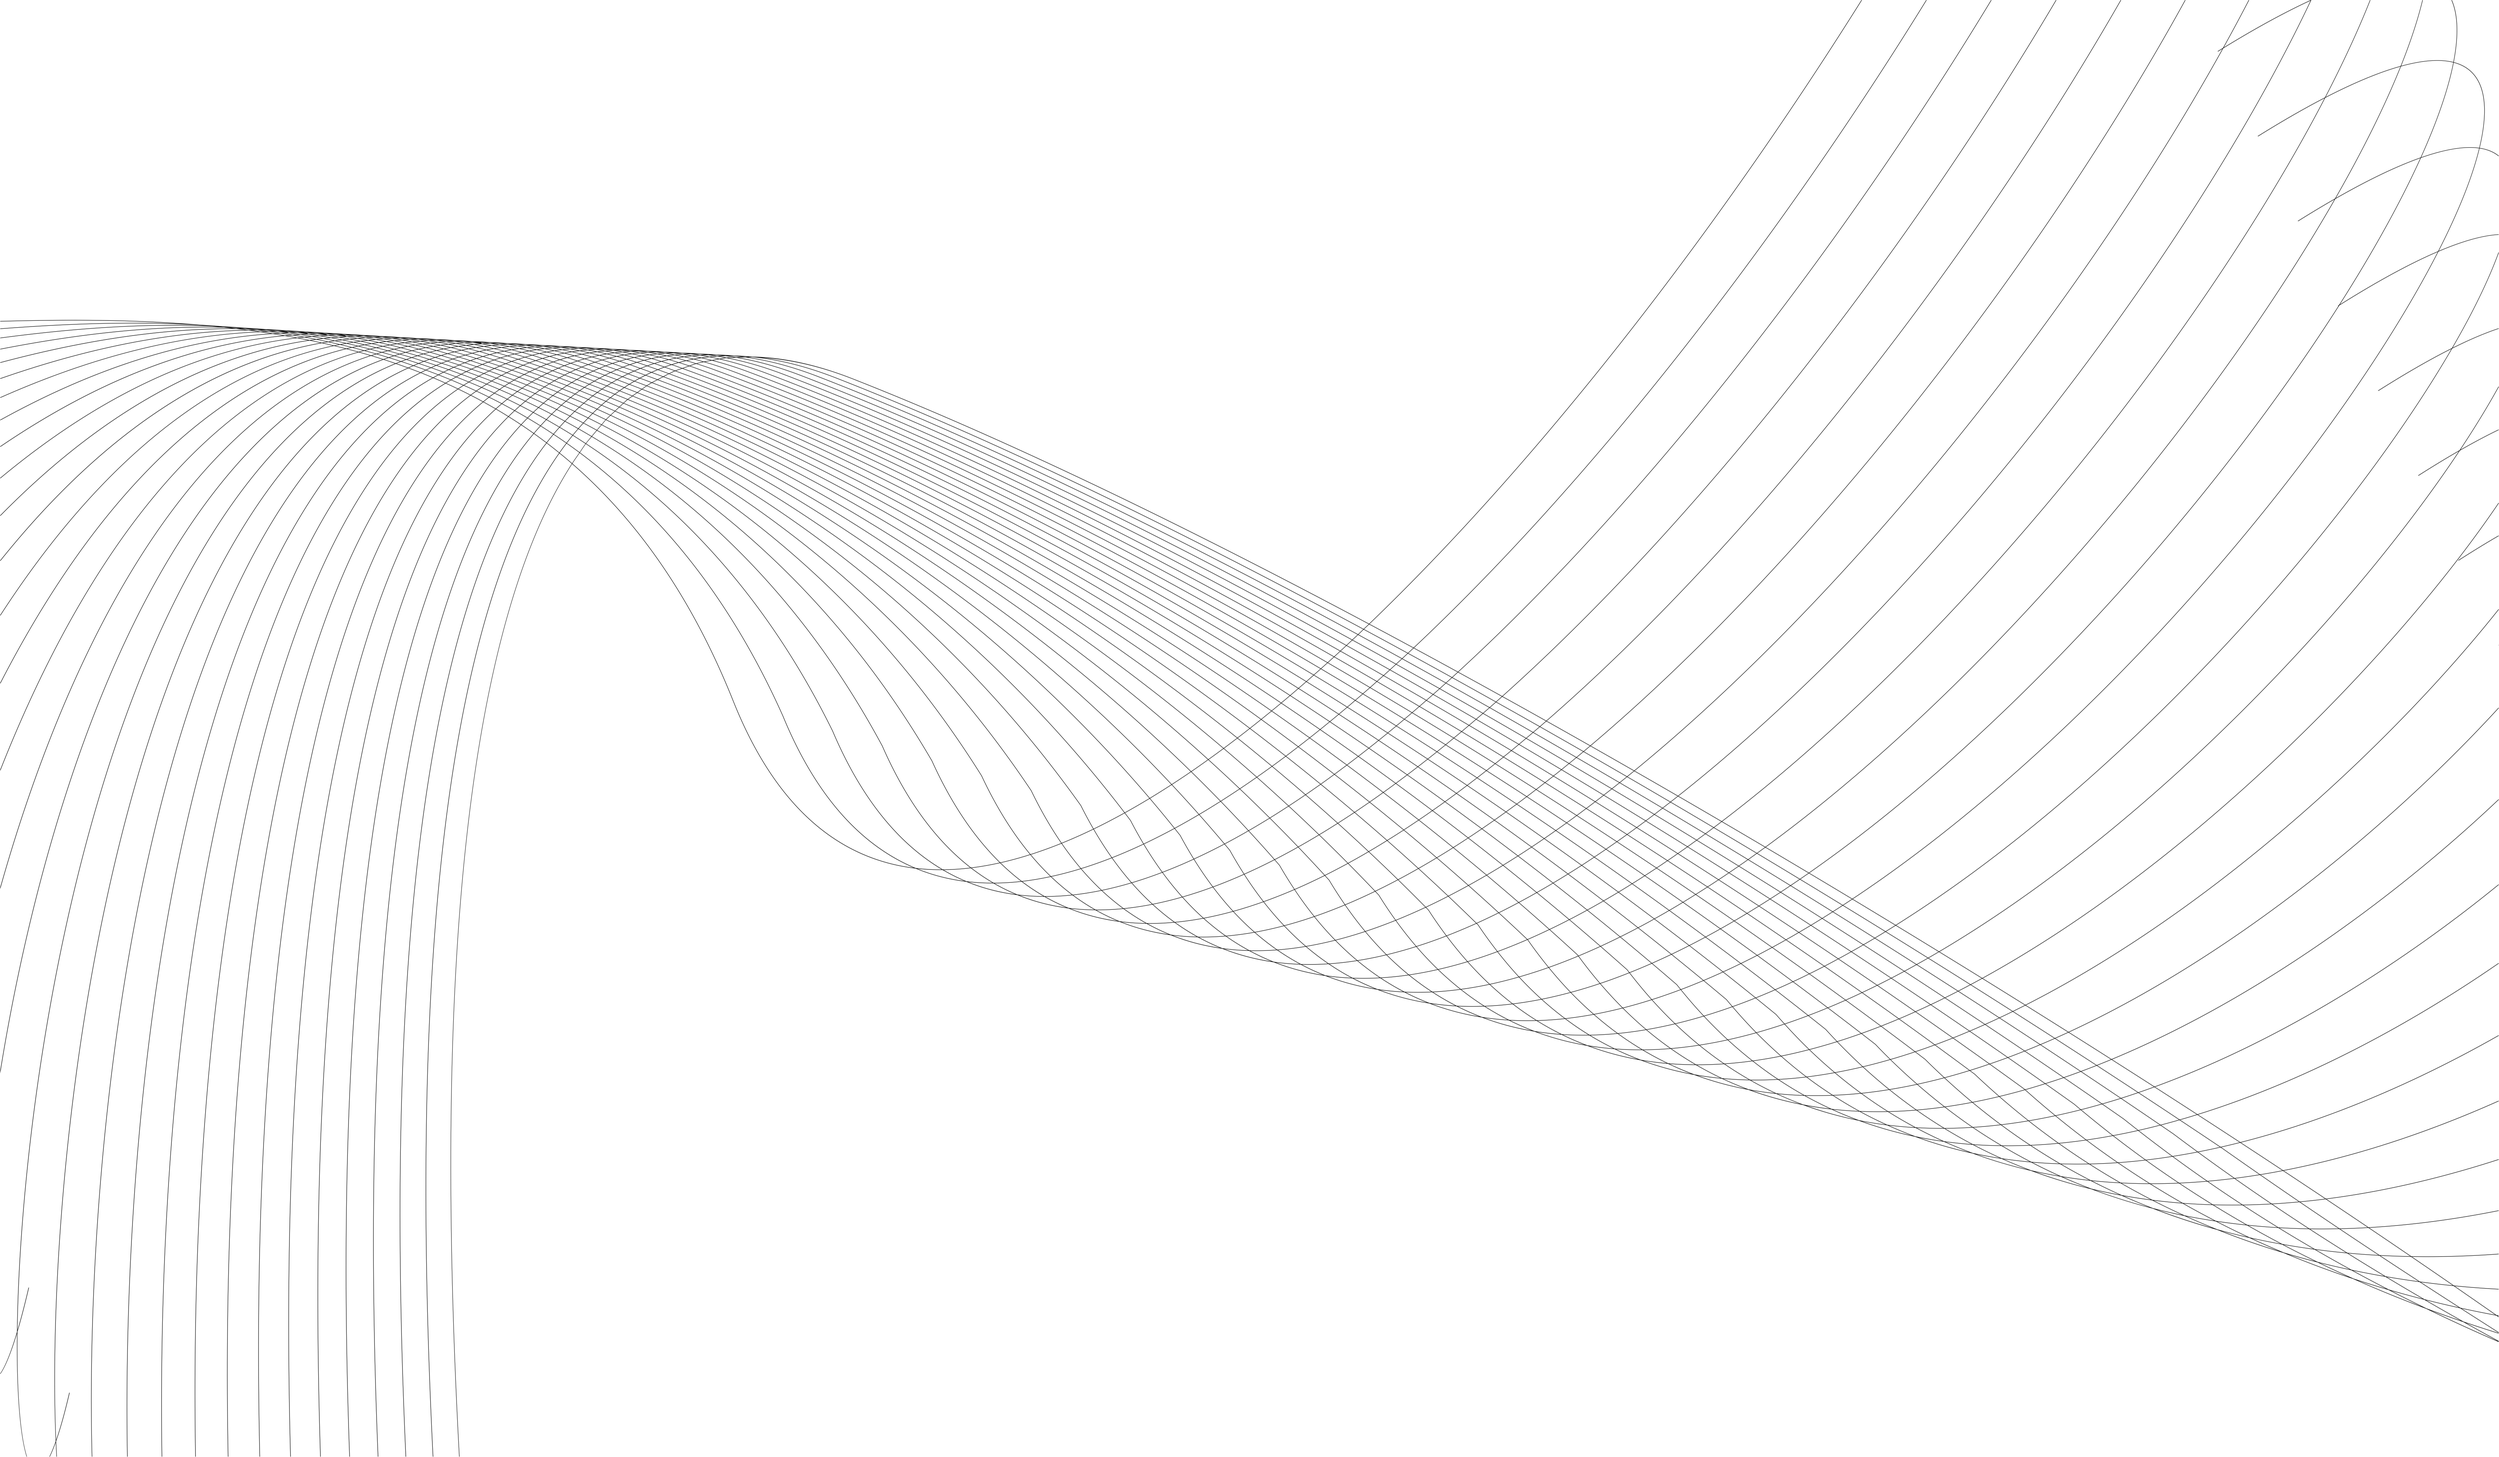
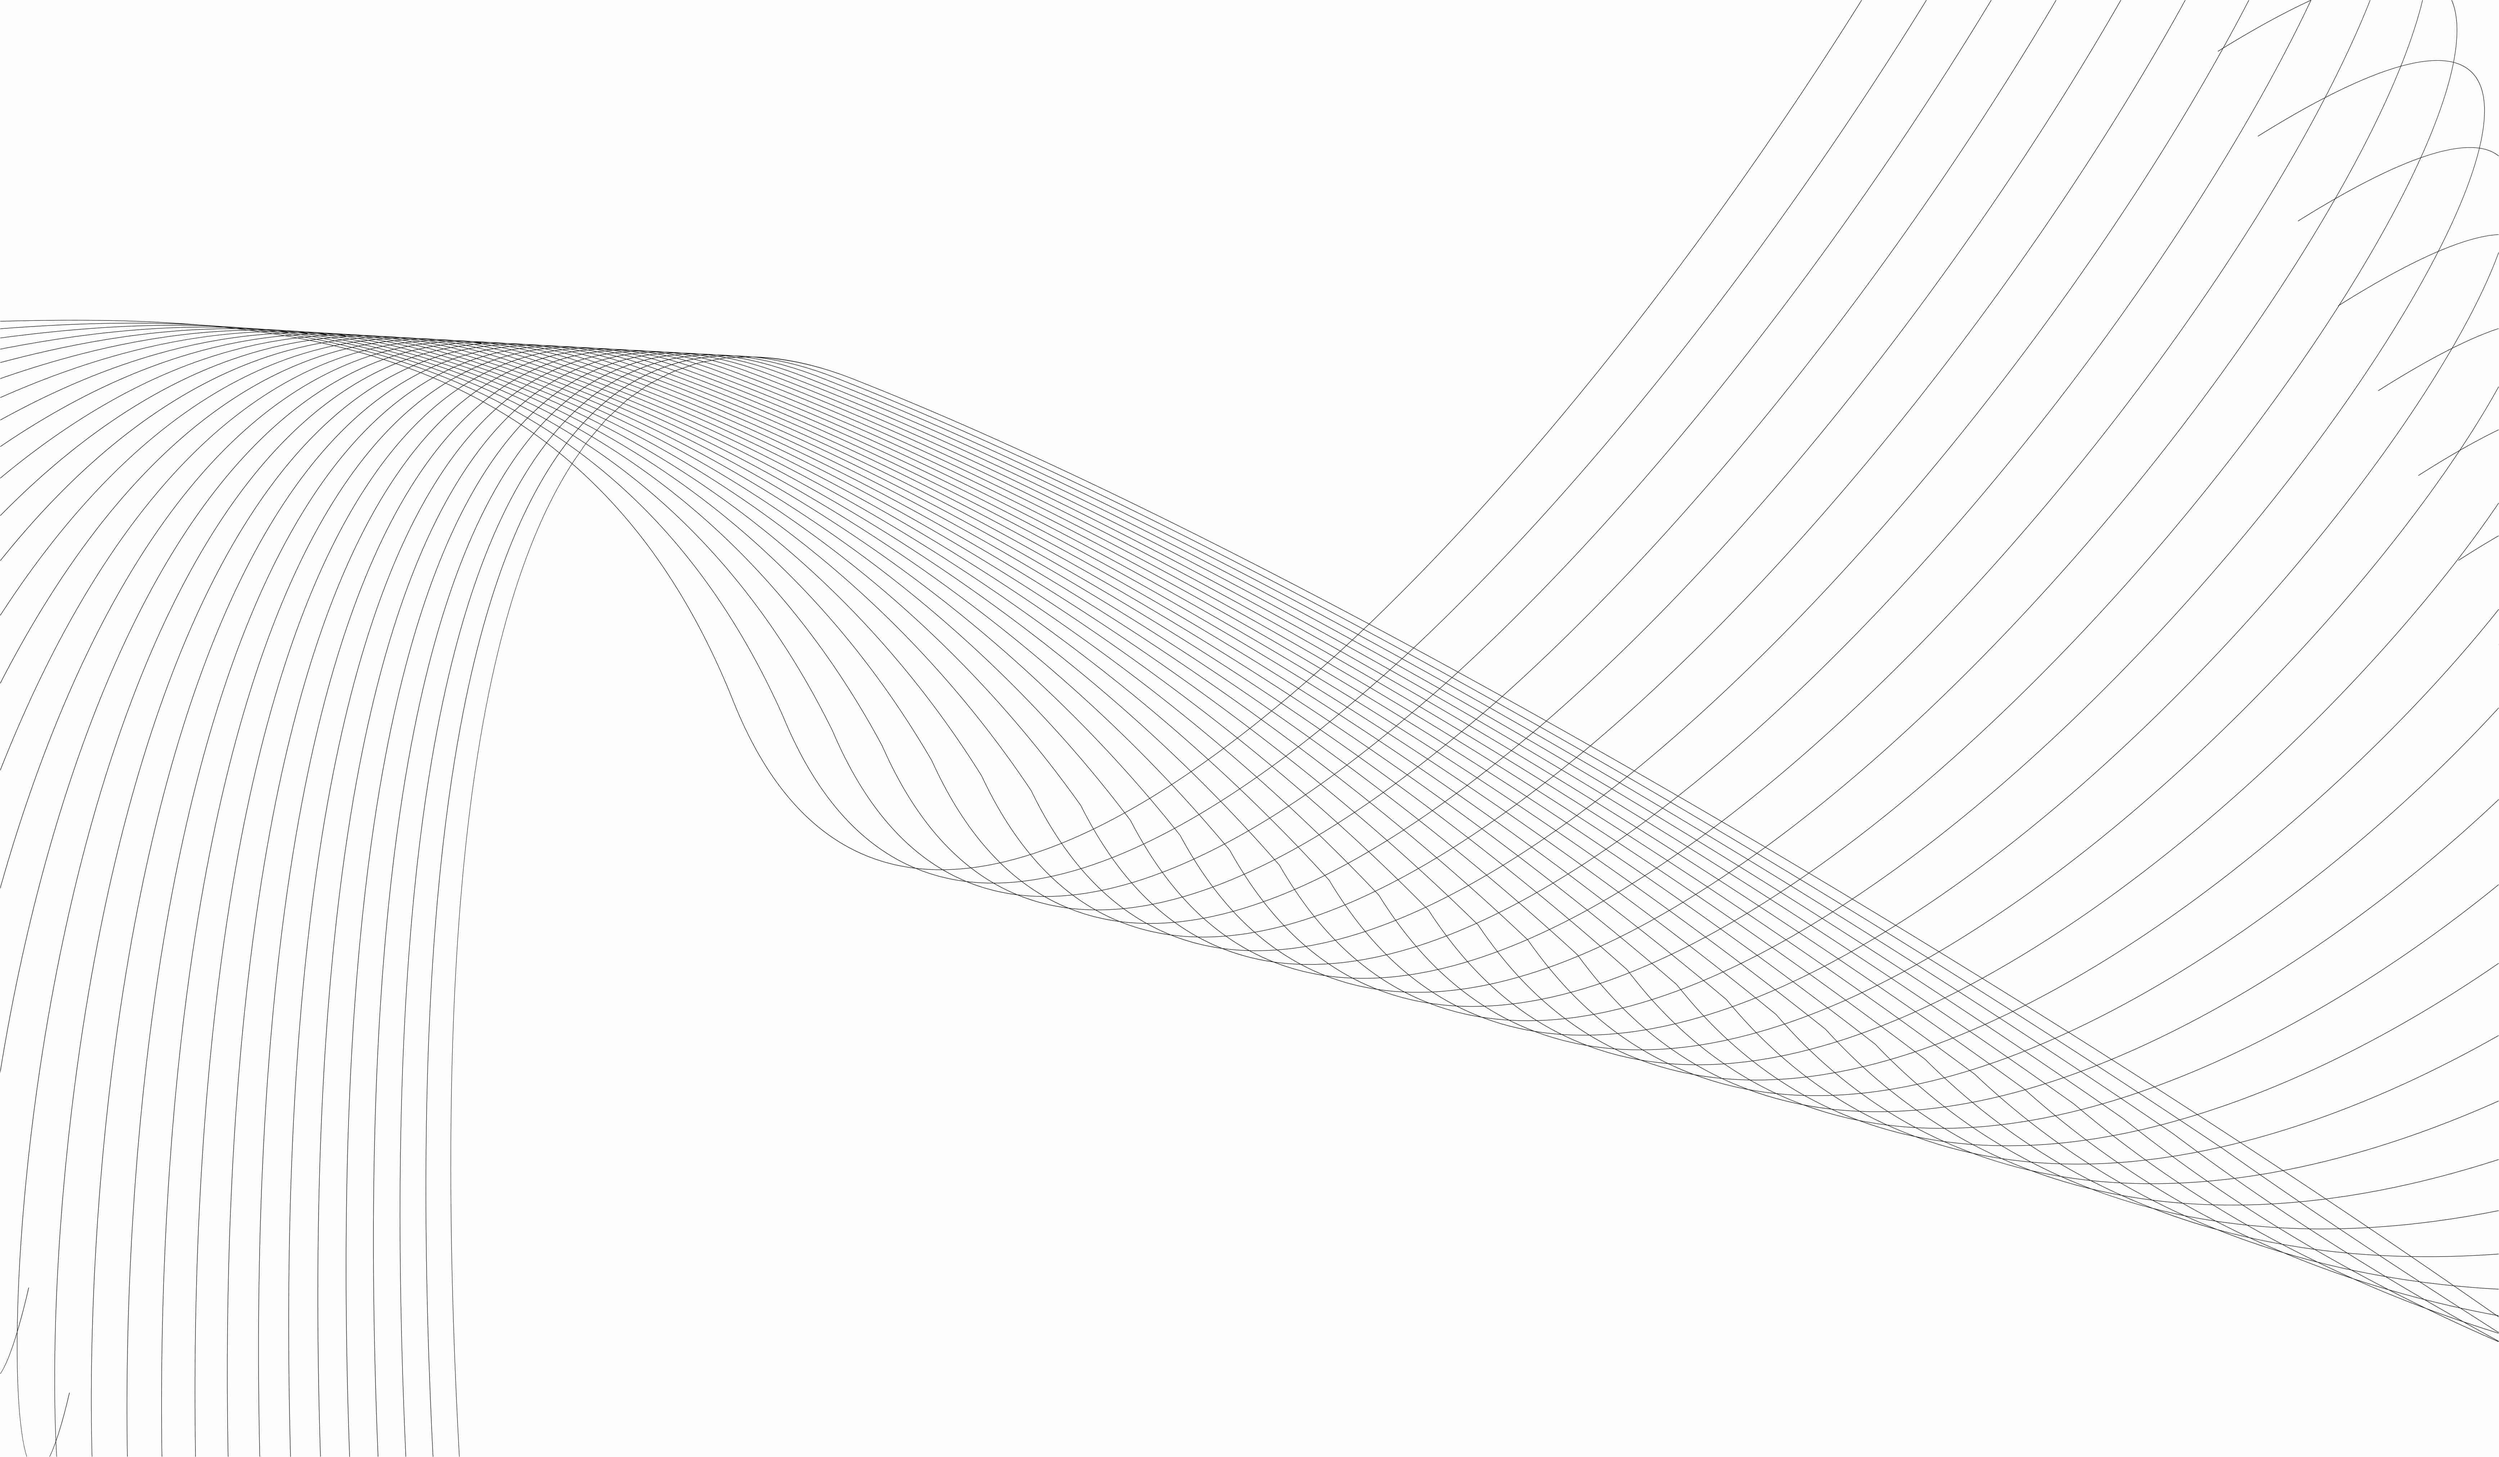
last

Changed region(s): [[0.1867, 0.2491, 0.3734, 0.3113]]

diff --git a/index.html b/index.html
@@ -76,85 +76,83 @@
 
   <main class="main">
     <!-- Hero Section -->
-    <section id="hero" class="hero section">
-      <!-- Video Background -->
-      <video id="hero-video" class="hero-video" autoplay muted loop playsinline>
-        <source id="video-source" src="assets/img/portfolio/720.webm" type="video/webm">
-        Your browser does not support the video tag.
-      </video>
+    <section id="hero" class="hero section" style="position: relative; overflow: hidden;">
+  <!-- Video Background -->
+  <video id="hero-video" class="hero-video" autoplay muted loop playsinline
+         style="width: 100%; height: 100%; object-fit: cover; display: block;">
+    <source id="video-source" src="assets/img/portfolio/720.webm" type="video/webm">
+    Your browser does not support the video tag.
+  </video>
 
-      <div class="container" data-aos="fade-up" data-aos-delay="100">
-        <div class="row align-items-center">
-          <div class="col-lg-6 mb-4 mt-5 mb-lg-0">
-            <div class="badge-wrapper mb-3">
-              <div class="d-inline-flex align-items-center rounded-pill border border-accent-light">
-                <div class="icon-circle me-2">
-                  <i class="bi bi-bell"></i>
-                </div>
-                <span class="badge-text me-3">Finovra</span>
-              </div>
+  <!-- Fallback image for mobile/iOS -->
+  <img id="hero-poster" src=""
+       style="display:none; position: absolute; top: 0; left: 0; width: 100%; height: 100%; object-fit: cover;"
+       alt="Fallback Image">
+
+  <div class="container" data-aos="fade-up" data-aos-delay="100" style="position: relative; z-index: 2;">
+    <div class="row align-items-center">
+      <div class="col-lg-6 mb-4 mt-5 mb-lg-0">
+        <div class="badge-wrapper mb-3">
+          <div class="d-inline-flex align-items-center rounded-pill border border-accent-light">
+            <div class="icon-circle me-2">
+              <i class="bi bi-bell"></i>
             </div>
-            <h1 class="hero-title">
-              <span id="typed-text"></span>
-            </h1>
-
-            <!-- Typed.js -->
-            <script src="https://cdn.jsdelivr.net/npm/typed.js@2.0.12"></script>
-            <script>
-              var typed = new Typed('#typed-text', {
-                strings: ["ONE-STOP SOLUTION FOR YOUR BUSINESS NEEDS!"],
-                typeSpeed: 100,
-                backSpeed: 0,
-                showCursor: true,
-                cursorChar: '|',
-                smartBackspace: false,
-                loop: false
-              });
-            </script>
-
-            <div class="cta-wrapper">
-              <a href="#" class="btn btn-primary">Discover More</a>
-            </div>
+            <span class="badge-text me-3">Finovra</span>
           </div>
         </div>
+        <h1 class="hero-title">
+          <span id="typed-text"></span>
+        </h1>
+
+        <!-- Typed.js -->
+        <script src="https://cdn.jsdelivr.net/npm/typed.js@2.0.12"></script>
+        <script>
+          var typed = new Typed('#typed-text', {
+            strings: ["ONE-STOP SOLUTION FOR YOUR BUSINESS NEEDS!"],
+            typeSpeed: 100,
+            backSpeed: 0,
+            showCursor: true,
+            cursorChar: '|',
+            smartBackspace: false,
+            loop: false
+          });
+        </script>
+
+        <div class="cta-wrapper">
+          <a href="#" class="btn btn-primary">Discover More</a>
+        </div>
       </div>
+    </div>
+  </div>
 
-      <!-- Video Source Switcher for Mobile / Desktop / iOS -->
-      <script>
-        const video = document.getElementById('hero-video');
-        const source = document.getElementById('video-source');
+  <!-- Video Source Switcher for Mobile / Desktop / iOS -->
+  <script>
+    function setVideoSource() {
+      const isMobile = window.innerWidth <= 767;
+      const isIOS = /iPad|iPhone|iPod/.test(navigator.userAgent) && !window.MSStream;
 
-        function setVideoSource() {
-          const isMobile = window.innerWidth <= 767;
-          const isIOS = /iPad|iPhone|iPod/.test(navigator.userAgent) && !window.MSStream;
+      const video = document.getElementById('hero-video');
+      const source = document.getElementById('video-source');
+      const poster = document.getElementById('hero-poster');
 
-          if (isMobile || isIOS) {
-            // Use MP4 for iOS / mobile devices
-            source.src = 'assets/img/portfolio/480.mp4';
-            source.type = 'video/mp4';
-          } else {
-            // Use WebM for desktop / other browsers
-            source.src = 'assets/img/portfolio/720.webm';
-            source.type = 'video/webm';
-          }
+      if (isMobile || isIOS) {
+        video.style.display = 'none';
+        poster.style.display = 'block';
+        poster.src = 'assets/img/portfolio/newww.png';
+      } else {
+        source.src = 'assets/img/portfolio/720.webm';
+        source.type = 'video/webm';
+        video.load();
+        video.style.display = 'block';
+        poster.style.display = 'none';
+      }
+    }
 
-          video.load(); // reload video with new source
-        }
+    setVideoSource();
+    window.addEventListener('resize', setVideoSource);
+  </script>
+</section>
 
-        // Set video on page load
-        setVideoSource();
-
-        // Optional: update video on window resize
-        window.addEventListener('resize', setVideoSource);
-      </script>
-      <script>
-        // Log the currently loaded video
-        video.addEventListener('loadeddata', () => {
-          console.log("Loaded video:", video.currentSrc);
-        });
-      </script>
-
-    </section>
 
 
 
@@ -539,7 +537,7 @@
             <div class="highlight-card">
               <div class="card-content">
                 <h3>Inflatio Website</h3>
-                <p>Finance · Dashboard</p>
+                <p>Corporate · Dashboard</p>
               </div>
               <img src="assets/img/portfolio/inflatiowork.png" class="highlight-img" alt="Project 4">
             </div>
@@ -1057,7 +1055,7 @@
       class="bi bi-arrow-up-short"></i></a>
 
   <!-- Preloader -->
-  <div id="preloader"></div>
+ <div id="preloader"></div>
 
   <!-- Vendor JS Files -->
   <script src="assets/vendor/bootstrap/js/bootstrap.bundle.min.js"></script>

diff --git a/assets/css/main.css b/assets/css/main.css
@@ -232,9 +232,9 @@ h6 {
 }
 
 .mobile-menu-heading {
-  font-size: 1.8rem;
+  font-size: 1.2rem;
   font-weight: bold;
-  padding: 26px 20px;
+  padding: 17px 20px;
   border-bottom: 1px solid rgba(255, 255, 255, 0.2);
   color: linear-gradient(90deg, #00C9FF, #92FE9D);
   text-transform: uppercase;
@@ -381,9 +381,7 @@ h6 {
     border-radius: 6px;
 
     background: linear-gradient(#5d57f400, #5655878c), url(/assets/img/portfolio/fallback.jpg);
-    background-size: cover;
     background-repeat: no-repeat;
-    background-position: center;
 
     overflow-y: auto;
     transition: 0.3s;
@@ -397,7 +395,7 @@ h6 {
     color: var(--nav-dropdown-color);
     padding: 10px 20px;
     font-family: var(--nav-font);
-    font-size: 27px;
+    font-size: 17px;
     font-weight: 500;
     display: flex;
 
@@ -486,6 +484,7 @@ h6 {
 
   .mobile-nav-active .navmenu>ul {
     display: block;
+    max-height:40%;
   }
 }
 
@@ -613,33 +612,14 @@ h6 {
   position: fixed;
   inset: 0;
   z-index: 999999;
-  overflow: hidden;
-  background: var(--background-color);
-  transition: all 0.6s ease-out;
+  display: flex;
+  justify-content: center;
+  align-items: center;
+  background: var(--background-color); /* optional */
+  transition: opacity 0.6s ease-out;
 }
 
-#preloader:before {
-  content: "";
-  position: fixed;
-  top: calc(50% - 30px);
-  left: calc(50% - 30px);
-  border: 6px solid #ffffff;
-  border-color: var(--accent-color) transparent var(--accent-color) transparent;
-  border-radius: 50%;
-  width: 60px;
-  height: 60px;
-  animation: animate-preloader 1.5s linear infinite;
-}
 
-@keyframes animate-preloader {
-  0% {
-    transform: rotate(0deg);
-  }
-
-  100% {
-    transform: rotate(360deg);
-  }
-}
 
 /*--------------------------------------------------------------
   # Scroll Top Button
@@ -3152,4 +3132,15 @@ section,
   .clients-track .client-item img {
     max-height: 100%;
   }
+}
+#loader {
+  position: fixed;
+  top: 0; left: 0;
+  width: 100%; height: 100%;
+  background: #fff; /* or Finovra brand color */
+  display: flex;
+  align-items: center;
+  justify-content: center;
+  z-index: 9999;
+  transition: opacity 0.5s ease-out;
 }
